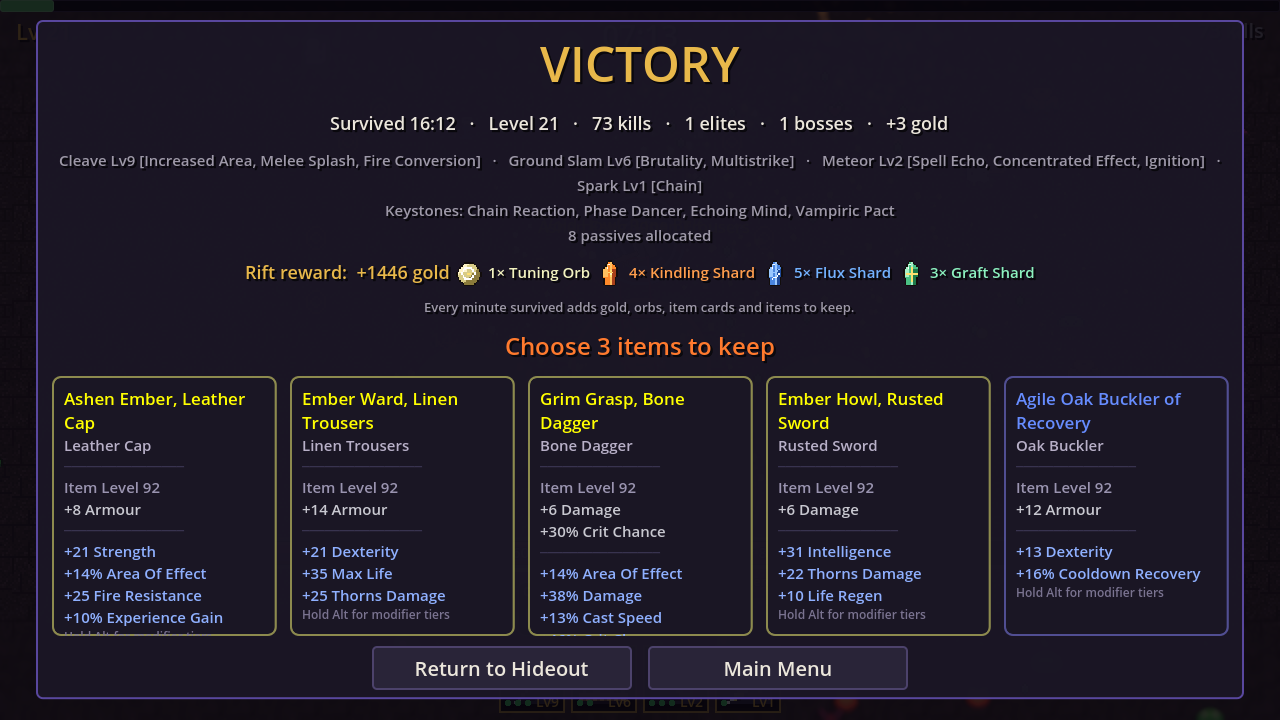
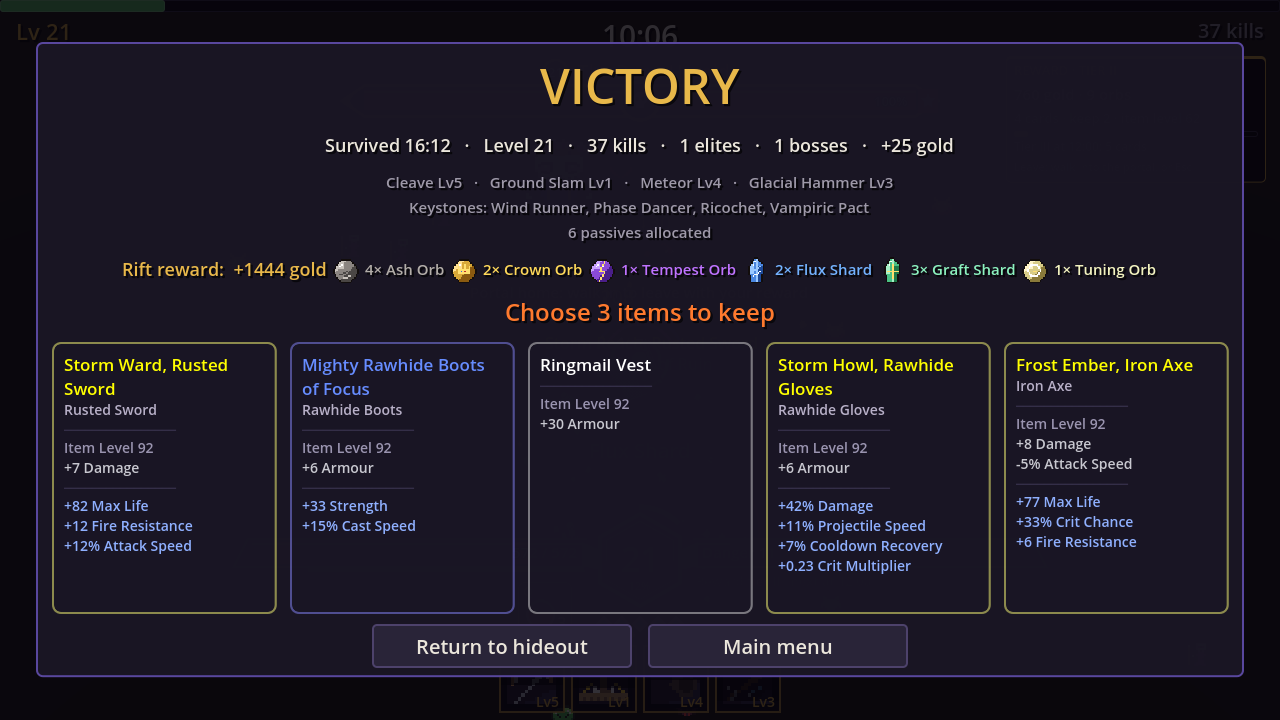
Docs: implemented sections for orb tooltips, Skill gems tab and cash-out; journal, capture line, screenshots
Claude-Session: https://claude.ai/code/session_017oVxMuiyGo7J29bWNRcSYW

diff --git a/CLAUDE.md b/CLAUDE.md
@@ -46,15 +46,16 @@ Godot game project. This file orients any agent (or future-you) working here.
 - `scripts/coop_local.sh [port]` — co-op on one PC: builds, opens a host window (lobby on port 7777) and a client window joining 127.0.0.1 (`COOP_CLIENTS=3` for a party of four; joiners use `--profile-readonly`). Game flags: `-- --coop-host[=port]`, `--coop-join=ip:port`, `--coop-autostart=N`, `--profile-readonly`. Design: `docs/design/multiplayer.md`.
 - `scenes/tests/CoopSmokeTest.tscn` spawns two more Godot processes as clients on localhost (needs a free UDP port in 7790–8190) and judges everything from the host; `scenes/tools/CoopBench.tscn` (`-- --clients=3 --run-time=350`) measures bandwidth and CPU for a party of four into `user://bench/coop_bench.txt`. Godot 4.1.1 sends RPCs on transfer channels above 0 unreliably whatever their mode: keep every RPC on channel 0.
 - Tests that can hang at shutdown mirror their lines to `user://test_results/<Name>.txt`; `run_all_tests.sh` reads that file too (see `EndgameSmokeTest`).
-- `scenes/tools/RunCapture.tscn` — scripted windowed run that saves devlog/PR screenshots (menu, skill pick, mid-run, level-up, pause, both bosses and their mechanics, results). `-- --only=endgame` captures character select/create, hideout, Mirror, skills/tree/altar panels, all three realities and Nereth's mechanics with demo characters; `--only=crafting` the merchant, the inventory's Crafting tab and seal, the bench tabs and the tooltip with/without Alt; `--only=town` the hideout town's quarters, an overview, Ysolde's shop and the three edit-mode tools; `--only=townmap` the town minimap during a station walk and the big map (M); `--only=update` the Rift HUD, power-ups, endless phase and results, Arehucaz, the Mirror jewels and liquids; `--only=caves` each cavern style in game (entrance, liquid, the boss arena entrance, overview), the hideout canal and the loading screen; `--only=layouts` (works headless) top-down sheets of four seeds per cavern style; `--only=settings` the settings panel's three tabs; `--only=coop` the co-op screen's states (host/join choice, inline errors, host lobby with free slots, a friend's lobby, wrong code, connecting, unreachable — host and friends run in one process); `--only=menus` every menu reachable from the title screen, as a new player and with demo characters (incl. pause and results). `--only=rift` the Survival Rift's progression screens with a full-bag demo character: the start pick, a lesser and a great keystone row, a row after a per-card reroll, results sending the reward to Pending items, results of a run left at once (no item, and why), the hideout banner and the stash's Pending tab.
+- `scenes/tools/RunCapture.tscn` — scripted windowed run that saves devlog/PR screenshots (menu, skill pick, mid-run, level-up, pause, both bosses and their mechanics, results). `-- --only=endgame` captures character select/create, hideout, Mirror, skills/tree/altar panels, all three realities and Nereth's mechanics with demo characters; `--only=crafting` the merchant, the inventory's Crafting tab and seal, the bench tabs, the tooltip with/without Alt, the instant orb tooltips (with orbs and on a disabled button) and Odran's Skill gems tab (skills, supports, after a purchase); `--only=town` the hideout town's quarters, an overview, Ysolde's shop and the three edit-mode tools; `--only=townmap` the town minimap during a station walk and the big map (M); `--only=update` the Rift HUD, power-ups, the Colossus cash-out offer, the endless phase with its reward panel, the portal's leave panel, the results (five cards), the co-op cash-out vote, Arehucaz, the Mirror jewels and liquids; `--only=caves` each cavern style in game (entrance, liquid, the boss arena entrance, overview), the hideout canal and the loading screen; `--only=layouts` (works headless) top-down sheets of four seeds per cavern style; `--only=settings` the settings panel's three tabs; `--only=coop` the co-op screen's states (host/join choice, inline errors, host lobby with free slots, a friend's lobby, wrong code, connecting, unreachable — host and friends run in one process); `--only=menus` every menu reachable from the title screen, as a new player and with demo characters (incl. pause and results). `--only=rift` the Survival Rift's progression screens with a full-bag demo character: the start pick, a lesser and a great keystone row, a row after a per-card reroll, results sending the reward to Pending items, results of a run left at once (no item, and why), the hideout banner and the stash's Pending tab.
 - `.github/workflows/release.yml` + `tools/launcher/` — releases and the Windows launcher (see `docs/design/distribution.md`). Every push to `main` publishes a version automatically; a `v*` tag publishes that exact version (cloud sessions can't push tags: the git proxy only allows the session branch). The launcher is a separate .NET Framework 4.8 project (`ArpgGame.csproj` excludes `tools/**`); build it with `dotnet build tools/launcher -c Release`.
 - Launcher art: `cd tools/art && npx tsx launcher.ts` regenerates `tools/launcher/Assets/{background.png,icon.ico}` (embedded in the exe).
 - `tools/art/` — the EasyPixel art pipeline (see `docs/design/art-pipeline.md`): `npm install && npm run setup && npm run build`; `npx tsx voxels.ts` exports the voxel models (`assets/voxels/`) used by the HD-2D view — re-run it (then re-import) whenever sprites or tilesets change.
 
 ## Game structure (PoE-style endgame + persistent characters)
 
-- Main scene `scenes/menus/MainMenu.tscn` → Play (character select/create; a new character first plays The Threshold, the introduction reality — `docs/design/tutorial.md`) → `scenes/Hideout.tscn` (a walled town — `docs/design/hideout.md`; H opens its edit mode) → Mirror (E) → `scenes/reality/Reality.tscn` (an Altered Reality: a cellular-automata cavern generated fresh on every entry, behind a loading screen — `CaveGenerator`; the older room-graph layouts are kept in `LayoutCatalog.RoomLayouts` and still build the tutorial — packs, boss behind a gate) → exit portal → hideout. The town has Odran the Trader (sell/buyback, shards) and Ysolde's Furnishings (floor tiles, decorations) in the plaza and the Artificer's forge (disenchant, forge) in the smithy; orbs are used from the inventory's Crafting tab (I) — `docs/design/crafting.md`. Orbs, dust and the town layout are account-wide (`Profile.Currency`, `Profile.Hideout`). The hideout portal is the Survival Rift (`scenes/run/Run.tscn`, the original survivor mode). `scenes/Main.tscn` is the original dummy sandbox ("Training Grounds").
+- Main scene `scenes/menus/MainMenu.tscn` → Play (character select/create; a new character first plays The Threshold, the introduction reality — `docs/design/tutorial.md`) → `scenes/Hideout.tscn` (a walled town — `docs/design/hideout.md`; H opens its edit mode) → Mirror (E) → `scenes/reality/Reality.tscn` (an Altered Reality: a cellular-automata cavern generated fresh on every entry, behind a loading screen — `CaveGenerator`; the older room-graph layouts are kept in `LayoutCatalog.RoomLayouts` and still build the tutorial — packs, boss behind a gate) → exit portal → hideout. The town has Odran the Trader (sell/buyback, shards, and a Skill gems tab: every skill and support by character level) and Ysolde's Furnishings (floor tiles, decorations) in the plaza and the Artificer's forge (disenchant, forge) in the smithy; orbs are used from the inventory's Crafting tab (I) — `docs/design/crafting.md`. Orbs, dust and the town layout are account-wide (`Profile.Currency`, `Profile.Hideout`). The hideout portal is the Survival Rift (`scenes/run/Run.tscn`, the original survivor mode; the Colossus kill asks whether to take the reward or keep going — `docs/design/run.md`). `scenes/Main.tscn` is the original dummy sandbox ("Training Grounds").
 - Persistent character code lives in `scripts/Characters/` (classes, passive tree, gems/loadout, ascendancies, class resources); realities in `scripts/World/` (layouts, flow field, tiers, controller). Design: `docs/design/endgame.md`, `classes.md`.
+- Gameplay events other systems may listen to (quests) go through the static `GameEvents` bus (`scripts/Core/GameEvents.cs`); UI tooltips go through `UiTheme.InstantTooltip`, never the built-in `TooltipText`.
 - Autoloads (`scenes/core/`): `GameSettings` (user://settings.cfg), `Profile` (characters + stash, user://profile.json), `Sfx` (procedural sounds/music), `HdView` (voxel HD-2D view), `NetSession` (co-op session and every RPC — `scripts/Net/`). Code must tolerate their absence: tests run scenes directly.
 - **Graphics: 2D simulation, voxel presentation.** Gameplay is all 2D nodes; `scripts/View3D/` renders a voxel 3D world under the 2D canvas with an orthographic camera synced to the Camera2D (ground plane lines up pixel-for-pixel with 2D overlays). 2D sprites are hidden via `SelfModulate` alpha 0 — don't use `SelfModulate` for gameplay effects. Headless runs never create the 3D stage. Forward+ captures in the cloud: install `mesa-vulkan-drivers`, run with `VK_ICD_FILENAMES=/usr/share/vulkan/icd.d/lvp_icd.json` and `--rendering-driver vulkan` (Compatibility/opengl3 works but has no shadows/glow/DOF in 4.1).
 - Design docs per system: endgame, classes, run, progression, dodge, enemies, bosses, menus, art-pipeline, distribution, tutorial, crafting, hideout, multiplayer (plus the earlier movement, skills, stats, items, affixes).

diff --git a/docs/design/run.md b/docs/design/run.md
@@ -104,15 +104,16 @@ up, the surges push back.
 
 ### The endless phase
 
-Killing the Colossus used to end the run. Now it opens a **portal home** (step on it
-to leave with a victory) and the waves come back: the danger clock keeps running, a
+Killing the Colossus used to end the run. Now it asks first (see "Cash-out offer and the
+infinite Rift" below); keeping going opens a **portal home** (step on it to be asked once
+more, then leave with a victory) and the waves come back: the danger clock keeps running, a
 boss arrives every two minutes (Herald and Colossus alternate, without clearing the
 arena), and every minute adds to the end-of-run reward. Falling in the endless phase
 still counts as a victory — the player already won; what they risk by staying is the
 time they would have spent, not the win. The autoplay bot takes the portal at once
 so balance numbers stay comparable with earlier passes.
 
-### Cash-out offer and the infinite Rift **[PLANNED 2026-10-18]**
+### Cash-out offer and the infinite Rift **[IMPLEMENTED 2026-10-18]**
 
 Owner request (translated): *"Make the Survival Rift infinite. When you reach the
 current cap (the Colossus kill) the game proposes a reward: take it and leave, or
@@ -303,7 +304,52 @@ the counter and the timer already exist and are understood.
 | `CASHOUT-AUTOPLAY` | the bot run ends at the Colossus with a victory |
 
 Capture: `RunCapture --only=update` gains `rift-cashout-offer.png`,
-`rift-cashout-leave.png`, `rift-reward-panel.png` and `coop-cashout.png`.
+`rift-cashout-leave.png`, `rift-reward-panel.png` and `coop-cashout.png`
+(plus `coop-cashout-chosen.png`).
+
+#### As built (deviations and additions)
+
+- **Code:** `UI/CashOutPanel.cs` (layer 22), `RunRewards` (`Tier`, `TierAt`, `TierStart`,
+  `NextTierAt`, `NextTierText`, `GuaranteedRare`, `BonusAscendant`, `OrbCount`,
+  `Preview`, `TierToast`; the tier X+ Ascendant Orbs are in `For`'s `Orbs` list),
+  `RunDirector` (`CashOutOffered`, `BeginEndless`, `AwaitingCashOut`, `PortalEntered`,
+  `AutoCashOut`), `RunHud` (reward panel, gauge line, tier toast), `PauseMenu`
+  (`LeaveTextNow`), `RunState.Fell`.
+- **The hold** is a 1.2 s `SceneTreeTimer` started at the kill (`CashOutHoldSeconds`),
+  not part of the director's clock; it pauses with the tree, so a level-up that opens
+  in those 1.2 s simply delays the panel. The victory banner now reads "Victory / The
+  Ember Colossus has fallen"; "The Rift deepens" (ember, `boss_warn` at -8 dB) and the
+  portal come with Keep going. `TakeExitPortal()` is now only "end the run as a
+  victory" (the panel's Take, the bot's backstop); walking into the portal solo raises
+  `PortalEntered`, and the controller opens the panel in leave mode.
+- **The numbers on the panel are the payout:** `CashOutPanel.Shown` comes from `Preview`
+  at the moment the panel opens, the tree is paused, and `For` runs in the same call
+  that ends the run (`CASHOUT-TAKE` compares gold, orbs, cards and keep).
+- **HUD reward panel** sizes itself to its five lines (about 100 px, not exactly 92)
+  and shows a placeholder in the HUD editor (`rift_reward`).
+- **Autoplay:** `RunLaunchOptions.AutoCashOut` (also `--auto-cash-out=0|1`) ends the run
+  as a victory on the kill, as the portal used to; the bot sets it for every run.
+- **Results:** the item-card text of five cards drops the "Hold Alt" line (and is 14 px,
+  cards 272 px tall); the "Every minute survived..." line is dropped at five cards. The
+  subtitle "You fell at 13:40 in the endless phase. The reward is yours." shows when
+  `RunState.Fell` and the run was a victory.
+- **Co-op:** `PartyRules.CashOutTimeout` (15 s), `RiftProtocol.RoundCashOut = 3` (the
+  `PartyRound` kind; a client's `ClientPick` carries "leave" or "stay"), `NetSession.Protocol`
+  is now 4. The host validates the answer (open round, once, only "leave" or "stay"; a
+  client row report for this round is refused). Anyone staying keeps the whole party in;
+  silence counts as leave. The party's stay toast, the one-second resume grace and the
+  pause on every machine are the level-up round's. `LastCashOutLeft`, `LastCashOutStayer`,
+  `LastCashOutPicks`, `OpenCashOutRoundForTest` and `CashOutTimeoutOverride` are hooks for
+  tests. Leave mode over a running co-op game (a client's Esc → Leave the party, the
+  host's End the run for everyone) cannot pause: the panel holds the local player still
+  (`Player.ControlsEnabled`) instead.
+- **Not built:** the "1 / 3 in the portal" count over the portal. The portal's caption in
+  co-op says "the whole party walks in to leave"; the rule is unchanged.
+- **Tests:** `CASHOUT-TIERS`, `-PREVIEW-MATCHES`, `-OFFER`, `-INPUT-GUARD`, `-TAKE`,
+  `-STAY`, `-TIER-TOAST`, `-PAUSE`, `-PORTAL`, `-LEAVE-PAYS`, `-DEATH`, `-AUTOPLAY` in
+  `RiftProgressionTest` (`RiftProgressionTest.CashOut.cs`; the run lives under a
+  pausable holder node, since a child of the always-processing test node never pauses);
+  `CASHOUT-COOP-*` in `CoopSmokeTest` (`CoopSmokeTest.CashOut.cs`).
 
 #### Open questions (owner)
 

diff --git a/docs/design/multiplayer.md b/docs/design/multiplayer.md
@@ -206,6 +206,8 @@ Owner requests (2026-10-17): shared experience, so everyone levels up together; 
 
 **The screen** (menus.md -> "Level-up and results"): the "1 / 3 chosen" line and the countdown sit in a panel at the top of the card screen. The countdown turns red at 5 s, with a tick every second (`Sfx` `tick`, and a brighter `tick_urgent` in the red) — only for a player still choosing; once you've picked, the countdown stays visible but silent (owner decision 2026-10-17). When the round closes every player gets `PartyRules.ResumeGraceSeconds` (1 s) of invulnerability, so nobody is hit in the frame the action restarts (owner chose this over a 3-2-1; solo gets the same after its cards). After choosing, the row gives way to "You chose X. Waiting for the others…" at the same height, so nothing jumps. The cards still own the keyboard. Esc doesn't reach the pause menu during a round.
 
+**The Colossus offer is a round too** (2026-10-18, run.md -> "Cash-out offer and the infinite Rift"). When the Colossus falls the host's director holds for 1.2 s and raises `CashOutOffered`; the host opens a round of kind `RoundCashOut` (3) once no other round holds the game. Same machinery: the whole game pauses, `PartyRound` carries the counter and a deadline (`PartyRules.CashOutTimeout`, 15 s), the screen is `CashOutPanel` with the "1 / 3 chosen" line and the red countdown. The row is fixed, "leave" or "stay"; a client answers with `ClientPick` (round id and the key), and the host accepts one answer per player in the open round, nothing else. **The party goes home only if everyone answers leave; silence counts as leave** (a player who is away is safest at home, and can't drag the others along). Any "stay" keeps everyone in: the host starts the endless phase, toasts "The party stays (Ana chose to keep going)...", and resumes with the one-second grace. All leave: `EndRun(true)`, a victory for everyone. A new `PartyRound` kind changes the wire format, so **`NetSession.Protocol` is 4**. Leaving later is not a vote: a client's Esc → Leave the party and the host's End the run for everyone open the panel in leave mode over the running game.
+
 **Solo is unchanged:** no rounds, no timer, the screen pauses the tree, queued levels back to back. The co-op path only runs with a session. `LevelUpScreen.PauseTree` is a separate switch for tests that drive the cards over a running tree; they used to borrow the co-op flag for that.
 
 **Caveats.** A few ascendancy windows are measured in wall-clock time (a 2 s shadowstep, the leech-per-second window), so a pause can run them out. Solo pauses have the same behaviour. Snapshots keep their full rate during a round, about the same bandwidth as the moment the game paused (they could drop to a few per second; not needed so far). After a resume, a client's inputs reach the host one trip later, as always.
@@ -217,7 +219,7 @@ Owner requests (2026-10-17): shared experience, so everyone levels up together; 
 
 ## Testing
 
-**Automated:** `./scripts/run_all_tests.sh CoopSmokeTest` (about 60 s). The test process hosts and starts two more Godot processes as clients on 127.0.0.1. It then drives a real Rift over ENet and asserts 68 checks.
+**Automated:** `./scripts/run_all_tests.sh CoopSmokeTest` (about 60 s). The test process hosts and starts two more Godot processes as clients on 127.0.0.1. It then drives a real Rift over ENet and asserts 77 checks.
 
 Security (2026-10-16). The attacks come from extra sessions in the same process, each on its own `SceneMultiplayer` branch (`SceneTree.SetMultiplayer(api, "/root/IntruderN")`), so the host sees them as separate machines:
 - logic: join code format and matching, the attempt limiter, the message budget, `NetWriter.Str` past 65 535 bytes, character validation, public/CG-NAT address detection

diff --git a/docs/devlog/journal.md b/docs/devlog/journal.md
@@ -571,3 +571,25 @@ Found on the way: the altar's "Become a…" is permanent and takes one click wit
 ![Arehucaz](screenshots/review-arehucaz.png)
 ![Rift endless phase](screenshots/review-rift-endless.png)
 ![Rift results at 16:12](screenshots/review-rift-results.png)
+
+## 2026-10-18 — Built: instant orb tooltips, Odran's Skill gems, the Rift's cash-out
+
+The three plans from the UX review are in the game (the quests are not: they come next, and the hooks are ready).
+
+- **Orb tooltips.** `UiTheme.InstantTooltip` shows a themed tooltip on the very frame the mouse enters a control, one per canvas layer; the orbs, the Seal, the dust icons, the hideout HUD, the minimap, the stash tab, Arehucaz's Buy buttons and the reroll buttons use it, and the built-in tooltip is themed (and 0.15 s) as a safety net. Disabled buttons keep their mouse filter, so an orb you have none of explains where to get it. A headless window has no pointer, so the real-pointer proof is the capture `craft-orb-tooltip-none.png`.
+- **Odran's Skill gems.** A second tab on his panel sells all 13 skills and 20 supports by character level (50 gold × level, 20 + 40 × level), with kind toggle, filter chips, "Only what I can buy", locked rows greyed, NEW tags and an ember dot on the tab. A bought gem joins the collection (K) at level 1; skills once, supports up to 6. Three new skills fill the gaps: Frost Shards, Storm Strike, Glacial Hammer (resources, catalog, class lists, icons from the art pipeline). The introduction's boss drops 70 gold, enough for any level-1 gem.
+- **The altar** asks twice now ("Become a Sage: this is permanent. Click again."), the blocker from the review.
+- **The Rift's cash-out.** The Colossus kill holds the director for 1.2 s and opens a panel: [1] take the reward now (gold, orbs, cards, item level, rarity, exactly what the results will pay) or [2] keep going (the endless phase, portal and "The Rift deepens"). The portal and Esc → Leave with reward open the same panel later ("Not yet" instead of Keep going). Reward tiers I to IV are today's steps; V and up guarantee Rare cards and then Ascendant Orbs. A reward panel on the HUD shows the tier and the way to the next, with a toast and a flash on a new tier. In co-op the offer is a 15 s party round: anyone staying keeps the party in, silence counts as leave (protocol 4). The bot takes the reward at the kill, so balance numbers stay comparable. Five item cards on the results screen are no longer clipped.
+- **Hooks for the quests:** `GameEvents.Raised(eventId, value, key)` fires `gem_bought`, `disenchanted`, `forged`, `shard_bought`, `ascendancy_chosen`, `jewel_socketed` and `item_sold` (quests.md lists where).
+- **Tests:** `TOOLTIP-*`, `GEMSHOP-*`, `ALTAR-CONFIRM`, `SKILLS-NEW-RESOURCES`, `CASHOUT-*` (solo, in the real Rift scene) and `CASHOUT-COOP-*` (two real clients). Lesson: a scene added under a test node that never pauses never pauses either; the Rift checks use a pausable holder.
+
+![Orb tooltip](screenshots/craft-orb-tooltip.png)
+![A disabled orb](screenshots/craft-orb-tooltip-none.png)
+![Odran's Skill gems](screenshots/odran-gems-skills.png)
+![Supports](screenshots/odran-gems-supports.png)
+![After buying](screenshots/odran-gems-bought.png)
+![The Colossus offer](screenshots/rift-cashout-offer.png)
+![The reward panel](screenshots/rift-reward-panel.png)
+![Leaving later](screenshots/rift-cashout-leave.png)
+![Results, five cards](screenshots/rift-results.png)
+![Co-op vote](screenshots/coop-cashout.png)

diff --git a/docs/design/hideout.md b/docs/design/hideout.md
@@ -170,7 +170,7 @@ Purchases go into the hideout's storage; you place them in edit mode. The floors
 the three reality tilesets are on sale too, so a corner of town can look like a
 crypt or the drowned mirror.
 
-## Odran's Skill gems tab **[PLANNED 2026-10-18]**
+## Odran's Skill gems tab **[IMPLEMENTED 2026-10-18]**
 
 Owner request (translated): *"Odran gets a new tab to buy skills: all of the game's
 skills for now, unlocked by character level. Support gems too. First approach, you
@@ -304,9 +304,9 @@ they are the biggest single jumps; conversions at 10, where the tree's elemental
 wheels start being reachable. "Favoured by" is the classes' `RiftSkills` list, so it
 also tells you which skills the class's Rift cards prefer. Nothing is class-locked.
 
-### Three new skills (proposed)
+### Three new skills
 
-Gaps in today's ten: Cold has only Frost Nova (no cold projectile for the Avatar of
+Gaps in the first ten: Cold has only Frost Nova (no cold projectile for the Avatar of
 Frost keystone and the freeze wheel), there is no Lightning attack (the Rogue's
 lightning wheel and Overcharge have no melee user), and the Rogue has the thinnest
 list (three skills, two shared). All three use existing archetypes, so each is a
@@ -363,6 +363,32 @@ progression.md's skills table when implemented.
 
 Capture: `RunCapture --only=crafting` gains `odran-gems-skills.png`,
 `odran-gems-supports.png` and `odran-gems-bought.png`.
+
+### As built (deviations and additions)
+
+- Code: `scripts/Characters/GemShop.cs` (rules, as planned: `GemOffer`, `Offers`, `Find`,
+  `Owned`, `CannotBuy`, `TryBuy`, `FavouredBy`, `FitsAny`, plus `FitNames`, `NewCount`,
+  `Locked`), `scripts/UI/GemShopView.cs` (the tab) and `MerchantPanel`
+  (`MerchantTab`, `ShowTab`, the ember dot, `Character` override for tests).
+  `CharacterData.GemShopSeenLevel` is saved (`SaveCharacter.GemShopSeenLevel`, clamped on load).
+- **Event:** `GemShop.TryBuy` raises `GameEvents.GemBought` (key = gem id, value 1 for a
+  support) for the quest system (`Core/GameEvents.cs`, see quests.md).
+- Rows are sorted by unlock level, then name (so Cleave comes before Double Strike at
+  level 1). The `NEW` tag is hidden on rows already owned. The lock is a drawn glyph (the
+  default font has no padlock). Starting skills the character already has show "Owned · Lv N".
+- Keys: Up/Down/Enter are handled in `_Input` while the tab is visible and all its
+  buttons take no focus, so Enter can't double-buy.
+- Skills panel (K): the dim line "More gems: reality bosses drop them, and Odran sells every
+  one (Skill gems tab)." is under the collection. Odran's `Blurb` reads "Sell gear, buy
+  crafting shards and skill gems."
+- The three new skills are in `UpgradeCatalog.Skills` and therefore also offered as
+  Survival Rift new-skill cards; each is in its class's `RiftSkills` (the Arcanist's Frost
+  Shards, the Rogue's Storm Strike, the Warrior's Glacial Hammer). Icons are in
+  `tools/art/sprites/endgame.ts` (not `icons.ts`, next to the other melee icons).
+  progression.md's skills table lists them.
+- Tests: `GEMSHOP-*` and `ALTAR-CONFIRM` in `EndgameSmokeTest` (`EndgameSmokeTest.GemShop.cs`),
+  plus `GEMSHOP-AFFORDABLE-AFTER-INTRO` (the introduction's boss alone drops 70 gold, a
+  level-1 gem costs at most 60) and `SKILLS-NEW-RESOURCES` per skill in `SkillsSmokeTest`.
 
 ### Open questions
 

diff --git a/docs/design/crafting.md b/docs/design/crafting.md
@@ -100,7 +100,7 @@ re-apply the equipment's stats mid-craft, and is the usual ARPG convention anywa
 The first pass had the orbs at the Artificer's bench; the owner asked for them under
 I, so the bench now does disenchanting and forging only.
 
-### Orb tooltips **[PLANNED 2026-10-18]**
+### Orb tooltips **[IMPLEMENTED 2026-10-18]**
 
 Owner report (translated): *"Hovering an orb in the Crafting tab shows its tooltip
 only after a delay, and it's annoying. It should appear at once, like item
@@ -158,7 +158,34 @@ still looks like a different program.
   `TooltipText`.
 
 Capture: `RunCapture --only=crafting` gains `craft-orb-tooltip.png` (the mouse
-warped over the Tempest Orb button, snapped two frames later).
+warped over the Tempest Orb button, snapped two frames later) and
+`craft-orb-tooltip-none.png` (the same over a disabled button with none in the bag).
+
+**As built (deviations from the plan):**
+
+- `UiTheme.InstantTooltip(Control, Action<HoverTooltip>)` has two plain-text overloads
+  (`string` and `Func<string>`: first line = title in gold, the rest in text colour; an
+  empty text shows nothing, which is how a Buy button without a reason stays quiet).
+  `HoverTooltip` gained `Source` (which control it is up for, so a control hiding only
+  hides its own tooltip), `Clear`, `HasContent` and `AllText`. A target with
+  `MouseFilter.Ignore` (a bare `TextureRect`, as the dust icons were) is switched to
+  `Pass`, or it would never get the enter signal.
+- The tooltip is created lazily under the nearest `CanvasLayer` ancestor (the inventory
+  is layer 12, modals 20), else under the window.
+- Moved to the helper: orb buttons, the Seal button, the dust/gold icons
+  (`CraftingBoard`), the hideout menu bar chips and directory rows (`HideoutHud`), the
+  minimap (`TownMap`), the stash's Pending tab, Arehucaz's Buy buttons (a disabled Buy
+  explains why: "Can't buy yet / Not enough gold."), the level-up reroll buttons
+  (`UpgradeCards`, one shared text). `HudEditor`'s empty `TooltipText = ""` stays.
+- Safety net: `TooltipPanel` / `TooltipLabel` are themed in `UiTheme.Build` and
+  `gui/timers/tooltip_delay_sec` is 0.15 in `project.godot`.
+- **Disabled buttons:** a disabled `BaseButton` keeps `MouseFilter.Stop`, so enter and
+  exit still arrive; `TOOLTIP-ORB-INSTANT` asserts that and drives the signal path.
+  A headless run cannot prove it with a real pointer (the 64 px headless window never
+  routes `InputEventMouseMotion` to the GUI, enabled buttons included), so
+  `craft-orb-tooltip-none.png` is the proof with a real pointer.
+- Tests live in `EndgameSmokeTest` (`EndgameSmokeTest.Tooltips.cs`), run inside the
+  hideout checks so the whole town, Odran, Arehucaz, the stash and the bench are built.
 
 ### Seals **[IMPLEMENTED 2026-10-13]**
 

diff --git a/docs/design/menus.md b/docs/design/menus.md
@@ -363,7 +363,7 @@ Open questions:
 - Showing the host's own failed-join attempts more prominently than the last two
   security lines.
 
-## UX review 2026-10-18: plan **[PLANNED]**
+## UX review 2026-10-18: plan **[IMPLEMENTED 2026-10-18 except the quests]**
 
 A review of four owner requests from captures of the current build
 (`docs/devlog/screenshots/review-*.png`, taken with `RunCapture --only=crafting`,
@@ -382,14 +382,21 @@ index and the findings by severity.
 | Polish | Inventory, Crafting tab | "Orb tooltips take ages to show." | Instant themed tooltips everywhere (crafting.md -> "Orb tooltips") |
 | Polish | Rift results | Item card text is clipped at five cards. | Drop the "Hold Alt" line in results cards (run.md -> "Reward tiers") |
 
+Status (2026-10-18): the altar's two-click confirm, Odran's Skill gems tab, the
+cash-out offer with the reward panel and tiers, the results-card fix and the instant
+tooltips are built (the sections they point to say how, and where they deviated). The
+quest rows (`ascend`, `mirror_jewel`, `arehucaz_shards`, `forge_*`) and the J log are
+still planned: quests.md. `GameEvents` (`scripts/Core/GameEvents.cs`) is the hook the
+quest system listens to.
+
 New shared pieces for `UiTheme` / the UI kit, so no screen invents its own:
 
-- `UiTheme.InstantTooltip` (one tooltip look and timing everywhere).
+- `UiTheme.InstantTooltip` (one tooltip look and timing everywhere) **[built]**.
 - `ModalPanel.SetQuestStrip` (a quest hint band under any panel's title).
 - `QuestToast` (layer 15) and the "!" / "?" marker glyph (`QuestMarker2D` in the
   world, the same drawing in the HUD and maps).
 - `CashOutPanel` reuses the level-up cards' rules: whole-card buttons, number keys,
-  a 0.45 s input guard, the cards own the keyboard.
+  a 0.45 s input guard, the cards own the keyboard **[built]**.
 
 Menu bar: a **J · Quests** chip between P and H, with an ember badge for new and
 ready quests.

diff --git a/docs/design/progression.md b/docs/design/progression.md
@@ -100,9 +100,9 @@ Every solo run opens with a skill card pick (`RunBuild.RollStartOffers`):
 
 | Class | Rift skills (first = always offered) |
 |---|---|
-| Warrior | Cleave, Ground Slam, Sunder, Double Strike |
-| Rogue | Double Strike, Throwing Knives, Ethereal Blades |
-| Arcanist | Fireball, Spark, Frost Nova, Meteor, Ethereal Blades |
+| Warrior | Cleave, Ground Slam, Sunder, Double Strike, Glacial Hammer |
+| Rogue | Double Strike, Throwing Knives, Ethereal Blades, Storm Strike |
+| Arcanist | Fireball, Spark, Frost Nova, Meteor, Ethereal Blades, Frost Shards |
 
 Later new-skill cards favour the class pool ×3 but never lock others out: a warrior
 can still pick up Spark. Supports are not carried over because the run is about
@@ -202,6 +202,12 @@ fire passive applies to it. None of this needed a special case: it falls out of 
 | Frost Nova | Area (self) | Spell, Area, Cold | Cooldown 2.2 s, knockback, always chills. |
 | Ethereal Blades | Orbit | Spell, Area, Duration | Physical. Protects your space. |
 | Meteor | Area (targeted, 0.7 s delay) | Spell, Area, Fire | Huge hit, small area, cooldown 2.8 s. |
+| Frost Shards | Projectile | Spell, Projectile, Cold | 3 shards in a 24° fan, 9 damage each, 0.45 s. Cold always chills. (2026-10-18, Odran sells it from level 6.) |
+| Storm Strike | Melee (arc) | Attack, Melee, Lightning | 85 range, 60° arc, 20 damage, 0.40 s. Shocks like any Lightning hit. (Level 10.) |
+| Glacial Hammer | Melee (arc) | Attack, Melee, Area, Cold | 95 range, 110° arc, 30 damage, 0.70 s, knockback. Cold always chills. (Level 14.) |
+
+(The three added on 2026-10-18 are in `UpgradeCatalog.Skills`, so the Rift offers them
+too; each is in its class's `RiftSkills`: hideout.md -> "Odran's Skill gems tab".)
 
 Two archetypes were added: `AreaSkillDefinition` (instant or delayed circle,
 centred on the caster or a target point — the same archetype boss slams use) and

diff --git a/docs/design/quests.md b/docs/design/quests.md
@@ -408,7 +408,13 @@ waiting without opening anything. It also shows the shape of the system: rows of
   objective happens inside its station's panel.
 - The prompt's own `PromptText` (tests) includes the quest suffix.
 
-## The altar's confirmation (Q6)
+## The altar's confirmation (Q6) **[IMPLEMENTED 2026-10-18]**
+
+Built ahead of the quests: `AscendancyPanel.Choose(id)` returns whether it chose; the
+armed button reads "Become a {name}: this is permanent. Click again." in ember for
+`ConfirmSeconds` (3 s), and `ascendancy_chosen` is raised through `GameEvents` on the
+confirmed click (`GameEvents.AscendancyChosen`, key = the id). `ALTAR-CONFIRM` is in
+`EndgameSmokeTest`.
 
 `AscendancyPanel.Choose` gets a two-step confirm, like character deletion: the first
 click turns the button into "Become a {name}: this is permanent. Click again." in
@@ -518,6 +524,17 @@ public sealed class QuestBook   // pure rules over two progress maps
   scan of six entries.
 
 ### Where the events come from
+
+**Hooks already in the code (2026-10-18):** `Core/GameEvents.cs` is a static bus,
+`GameEvents.Raised(string eventId, int value, string key)`, with the ids as constants.
+Raised today: `gem_bought` (`GameEvents.GemBought`; `GemShop.TryBuy`; key = gem id, value 1
+for a support), `disenchanted` (`ArtificerPanel.Disenchant`; value = dust, key = rarity),
+`forged` (`ArtificerPanel.Forge`; key = rarity of the result), `shard_bought`
+(`ShardVendorPanel.Buy`; value = tier), `ascendancy_chosen` (`AscendancyPanel.Choose`;
+key = id), `jewel_socketed` (`MirrorPanel.ClickJewel`; key = node id), `item_sold`
+(`MerchantPanel.Sell`; value = gold). `boss_killed`, `jewel_found`, `shard_found` and
+`hideout_entered` below are not raised yet. The `Quests` facade can subscribe to the bus
+(in `_EnterTree`, unsubscribe in `_ExitTree`) instead of adding calls at each site.
 
 | Event | Raised in | When |
 |---|---|---|
